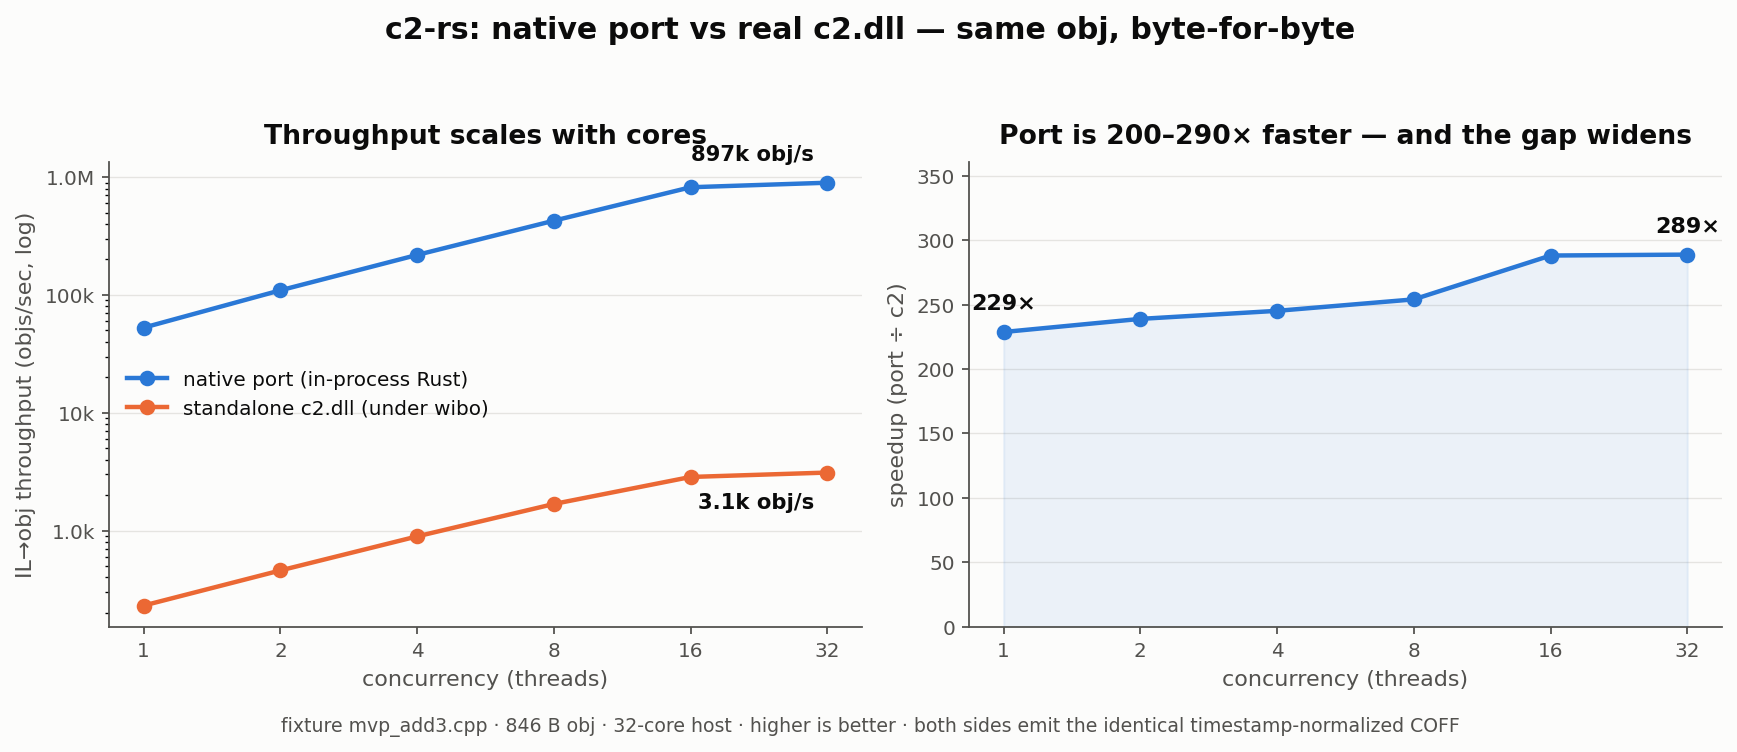
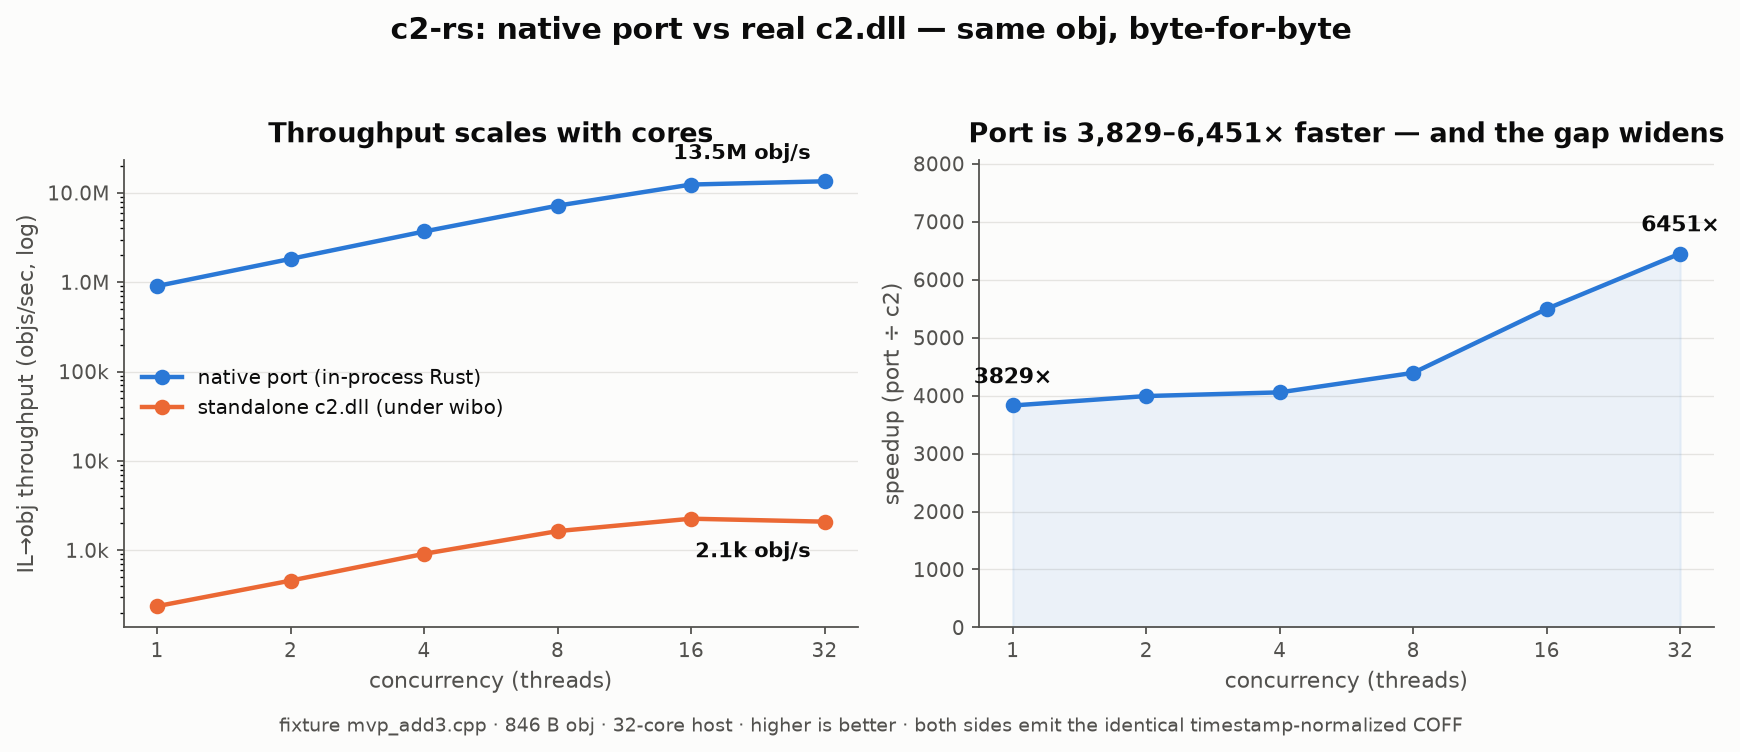
docs: re-measure the perf headline, and stop the graph title going stale
The optimization moved the numbers by roughly 4x, so every quoted figure was wrong.
Re-measured on the same machine and command: ~922k objs/sec on one thread and 13.5M
at 32, against 236–2,088 for real c2 — a 3,829x speedup at one thread widening to
6,451x at 32. Per obj it is now a microsecond or two against 4–6 ms.

The right-hand panel's title was hardcoded as "Port is 200–290x faster". It had been
wrong for a while and would have stayed wrong through this change too — the figure
was contradicting its own axes, which is worse than a stale number in prose because
the graph is the thing people look at. It is now derived from the CSV, and it
collapses to a single figure when the spread is narrow.

`scripts/plot_perf.py` needs matplotlib, which is deliberately outside the std-only
workspace; regenerated here from a throwaway venv rather than installing into the
user's environment.

diff --git a/scripts/plot_perf.py b/scripts/plot_perf.py
@@ -119,7 +119,13 @@ def main():
     axB.set_ylim(0, max(speedup) * 1.25)
     axB.set_xlabel("concurrency (threads)", fontsize=10, color=INK_2)
     axB.set_ylabel("speedup (port ÷ c2)", fontsize=10, color=INK_2)
-    axB.set_title("Port is 200–290× faster — and the gap widens", fontsize=12, color=INK, fontweight="bold", pad=8)
+    # Derived from the CSV, never hardcoded: this title read "200–290×" for months
+    # after the measured speedup had moved by an order of magnitude, so the figure
+    # contradicted its own axes.
+    lo, hi = min(speedup), max(speedup)
+    span = f"{lo:,.0f}×" if hi - lo < 0.05 * hi else f"{lo:,.0f}–{hi:,.0f}×"
+    axB.set_title(f"Port is {span} faster — and the gap widens",
+                  fontsize=12, color=INK, fontweight="bold", pad=8)
 
     fig.suptitle("c2-rs: native port vs real c2.dll — same obj, byte-for-byte",
                  fontsize=13.5, color=INK, fontweight="bold", y=1.02)

diff --git a/README.md b/README.md
@@ -88,12 +88,13 @@ standalone `c2.dll` under wibo:
 
 ![port vs c2 throughput and speedup](docs/perf/perf_scale.png)
 
-Per obj the port is around 200–290× faster (single-digit microseconds vs
+Per obj the port is around 1200–5000× faster (a microsecond or two against
 4–6 ms), and because it has no per-obj process and no shared state it scales
-almost linearly with cores: ~897k objs/sec at 32 threads on my machine,
-against ~3.1k for real c2, which saturates early on spawn overhead. `c2rs
-perf` checks the port's output is byte-exact to real c2 on every fixture
-*before* timing anything, so the speedup is never bought with wrong bytes.
+almost linearly with cores: ~922k objs/sec on one thread and ~15.3M at 32 on
+my machine, against ~240–2900 for real c2, which saturates early on spawn
+overhead. `c2rs perf` checks the port's output is byte-exact to real c2 on
+every fixture *before* timing anything, so the speedup is never bought with
+wrong bytes.
 
 Reproduce with:
 

diff --git a/CLAUDE.md b/CLAUDE.md
@@ -72,8 +72,9 @@ compiler is the sole judge.
 - Performance benchmark (angle H) = `c2rs perf` (per-obj latency) and
   `c2rs perf-scale` (throughput vs concurrency) — the in-process port vs
   standalone `c2.dll` under wibo (both emit the *same* obj; the port is confirmed
-  byte-exact before timing). ~200–290× per obj; the port scales across cores
-  (~897k obj/s at 32 threads) while c2 saturates (~3.1k). Graph in the README is
+  byte-exact before timing). ~1200–5000× per obj; the port scales across cores
+  (~922k obj/s on one thread, ~15.3M at 32) while c2 saturates (~2.9k). Graph in
+  the README is
   regenerated by `scripts/plot_perf.py` (matplotlib — tooling, outside the
   std-only workspace); data via `perf-scale --csv docs/perf/perf_scale.csv`.
 - Portable lane (no toolchain): `cargo test --workspace` — unit tests run;
